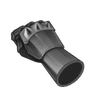
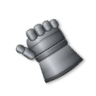
Curseur gantelet sur mesure, mode dev peaufiné, apparition des fanions corrigée
Claude-Session: https://claude.ai/code/session_0146Ahif6waR1P8s7ctFtwsu

Changed region(s): [[0.0938, 0.1875, 0.9062, 0.9062]]

diff --git a/src/styles/global.css b/src/styles/global.css
@@ -71,10 +71,10 @@ html.screens, html.screens body { height: 100%; overflow: hidden; overscroll-beh
 /* ---------- accessibilité ---------- */
 /* curseur : gantelet (fichier fourni), point chaud à la pointe ; le curseur système reste pour les champs de texte */
 /* curseurs : gantelet médiéval (THTH, domaine public), passé en niveaux de gris ; 48 px, version 2× pour Retina */
-html { cursor: url(/cur-default.png) 2 3, auto !important; cursor: -webkit-image-set(url(/cur-default.png) 1x, url(/cur-default-2x.png) 2x) 2 3, auto !important; cursor: image-set(url(/cur-default.png) 1x, url(/cur-default-2x.png) 2x) 2 3, auto !important; }
-a, button, [role='button'], label, summary, select, [data-go], [data-copy], .prog { cursor: url(/cur-pointer.png) 2 3, auto !important; cursor: -webkit-image-set(url(/cur-pointer.png) 1x, url(/cur-pointer-2x.png) 2x) 2 3, auto !important; cursor: image-set(url(/cur-pointer.png) 1x, url(/cur-pointer-2x.png) 2x) 2 3, auto !important; }
-.obj a, .stage { cursor: url(/cur-grab.png) 2 3, auto !important; cursor: -webkit-image-set(url(/cur-grab.png) 1x, url(/cur-grab-2x.png) 2x) 2 3, auto !important; cursor: image-set(url(/cur-grab.png) 1x, url(/cur-grab-2x.png) 2x) 2 3, auto !important; }
-.obj.drag a, .stage:active { cursor: url(/cur-grabbing.png) 2 3, auto !important; cursor: -webkit-image-set(url(/cur-grabbing.png) 1x, url(/cur-grabbing-2x.png) 2x) 2 3, auto !important; cursor: image-set(url(/cur-grabbing.png) 1x, url(/cur-grabbing-2x.png) 2x) 2 3, auto !important; }
+html { cursor: url(/cur-default.png) 9 6, auto !important; cursor: -webkit-image-set(url(/cur-default.png) 1x, url(/cur-default-2x.png) 2x) 9 6, auto !important; cursor: image-set(url(/cur-default.png) 1x, url(/cur-default-2x.png) 2x) 9 6, auto !important; }
+a, button, [role='button'], label, summary, select, [data-go], [data-copy], .prog { cursor: url(/cur-pointer.png) 9 6, auto !important; cursor: -webkit-image-set(url(/cur-pointer.png) 1x, url(/cur-pointer-2x.png) 2x) 9 6, auto !important; cursor: image-set(url(/cur-pointer.png) 1x, url(/cur-pointer-2x.png) 2x) 9 6, auto !important; }
+.obj a, .stage { cursor: url(/cur-grab.png) 9 6, auto !important; cursor: -webkit-image-set(url(/cur-grab.png) 1x, url(/cur-grab-2x.png) 2x) 9 6, auto !important; cursor: image-set(url(/cur-grab.png) 1x, url(/cur-grab-2x.png) 2x) 9 6, auto !important; }
+.obj.drag a, .stage:active { cursor: url(/cur-grabbing.png) 18 12, auto !important; cursor: -webkit-image-set(url(/cur-grabbing.png) 1x, url(/cur-grabbing-2x.png) 2x) 18 12, auto !important; cursor: image-set(url(/cur-grabbing.png) 1x, url(/cur-grabbing-2x.png) 2x) 18 12, auto !important; }
 input, textarea, [contenteditable] { cursor: text; }
 :focus-visible { outline: 2px solid var(--ac); outline-offset: 3px; }
 .skip { position: fixed; left: var(--m); top: 8px; z-index: 200; background: var(--fg); color: var(--bg); padding: 12px 16px; transform: translateY(-200%); }
